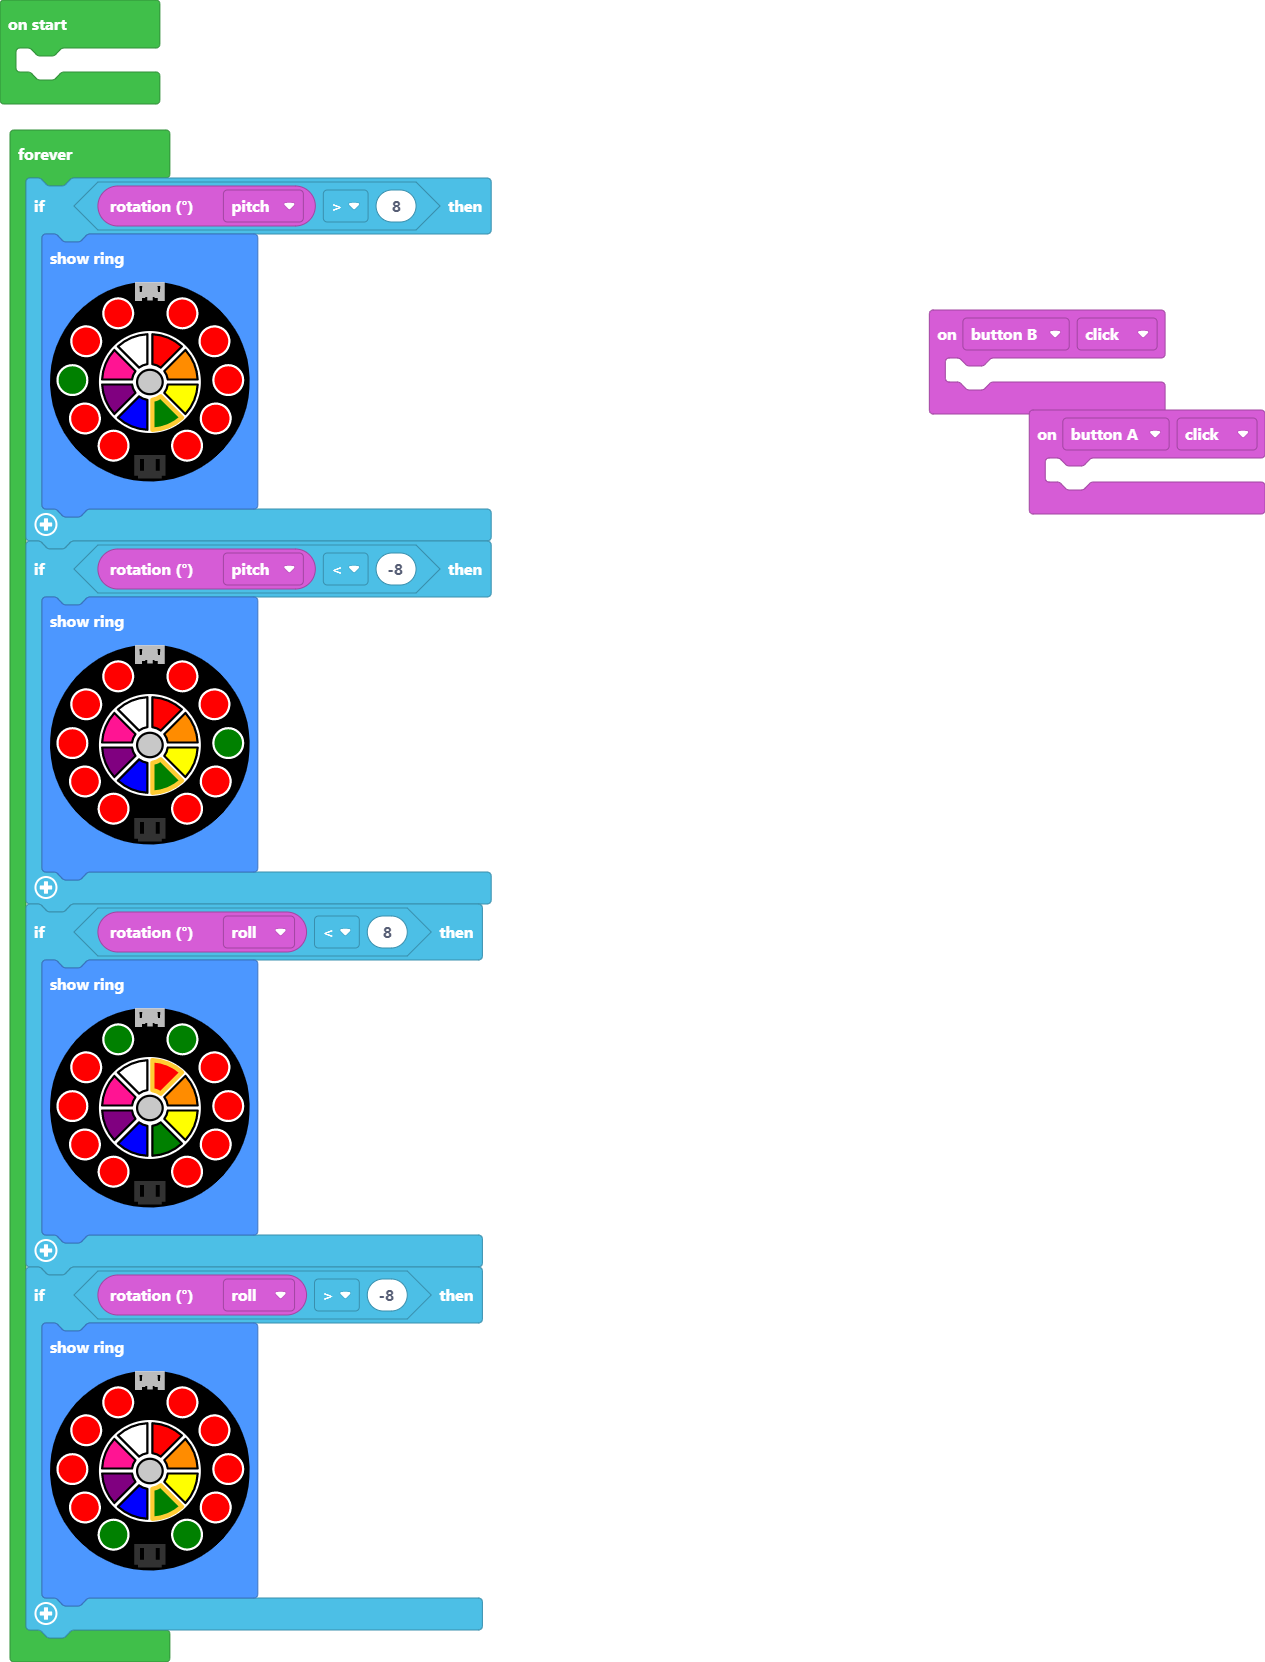
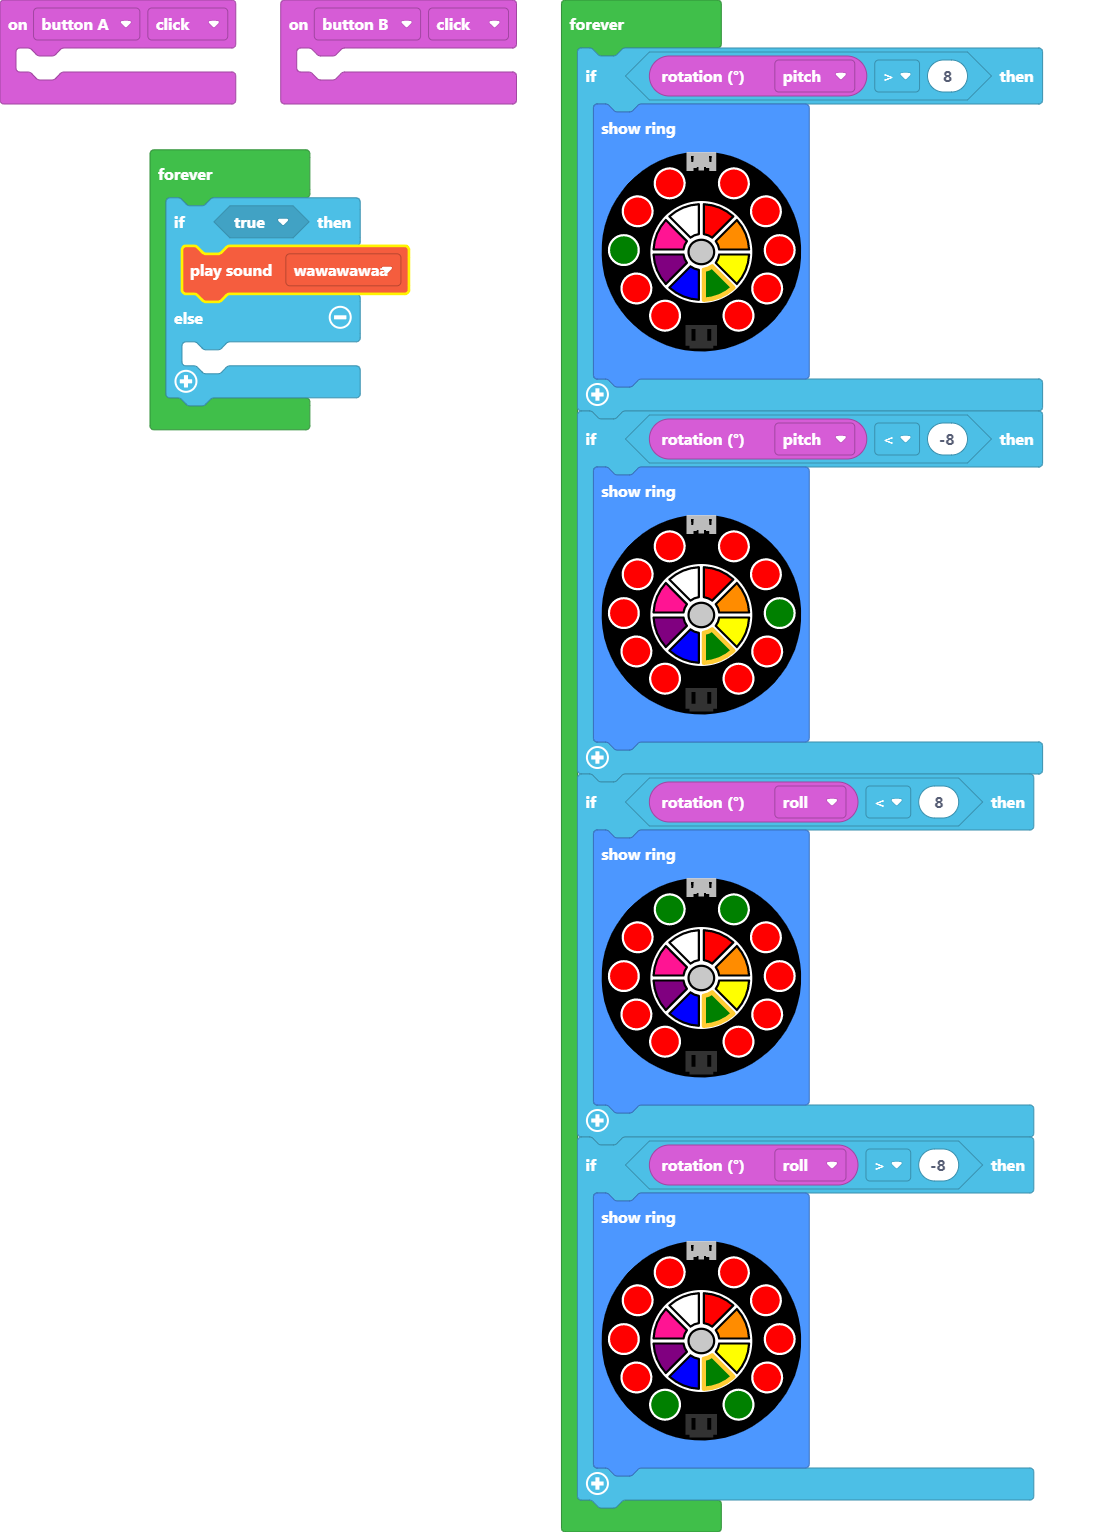
Update pxt.json, main.blocks, main.ts

diff --git a/main.ts b/main.ts
@@ -26,3 +26,10 @@ forever(function () {
         )
     }
 })
+forever(function () {
+    if (true) {
+        music.wawawawaa.play()
+    } else {
+    	
+    }
+})
